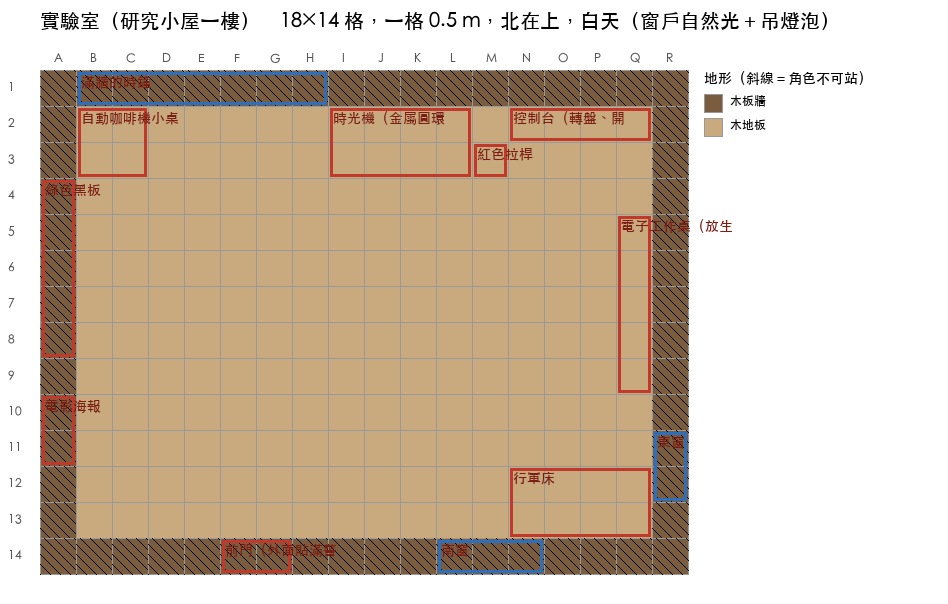
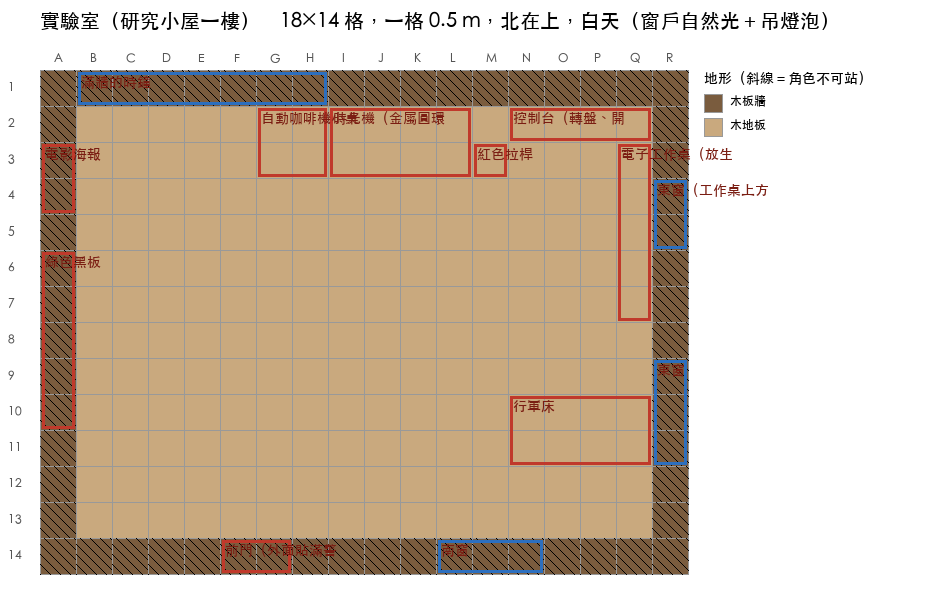
stickman: 實驗室地圖照設定圖第 2 版調整

diff --git a/stickman/characters/index.html b/stickman/characters/index.html
@@ -164,8 +164,8 @@ Every prop must keep exactly this shape and these colors whenever it appears.</d
 
 <h3 id="lab-v2">室內配置新版（2026-11-12）<span class="tag new">新</span></h3>
 <p class="sub">研究小屋<b>一樓</b>，沒有樓梯；室內 8 × 6 公尺，跟第 3 幕小屋外觀一樣大。氣氛參考回到未來布朗博士的車庫，只借「滿牆時鐘、會出錯的自製機器、住在實驗室的生活痕跡」這類通用元素。舊 REF_LAB（地下室）已經照這份重畫成第 2 版。</p>
-<div class="grid"><figure><img loading="lazy" src="img/REF_LAB.jpg" alt="實驗室設定圖第 2 版"><figcaption><b>實驗室設定圖第 2 版（REF_LAB，2026-11-12）</b>：上面是從南牆中間往北看的主視角，下面三格是時光機與控制台、時鐘牆與咖啡機與黑板、工作桌與行軍床。以後實驗室的格子都附這張。<br>跟地圖不一樣的地方：電影海報畫在黑板<b>北邊</b>（靠時鐘那一角），地圖上在黑板南邊，待決定改哪一邊。</figcaption></figure>
-<figure><img loading="lazy" src="img/lab_map_v2.png" alt="實驗室新地圖"><figcaption>新地圖（maps/lab.json）：一格 0.5 公尺，北在上。紅框＝地上的東西，藍框＝掛在牆上或高處（時鐘、窗戶）。</figcaption></figure><div class="card"><h3>地圖位置 → 設定圖主視角的位置</h3><table class="t"><tr><th>地圖位置</th><th>東西</th><th>主視角裡的位置</th></tr><tr><td>B1–H1（北牆西半）</td><td>滿牆的時鐘</td><td>後牆左半</td></tr><tr><td>B2（西北角）</td><td>自動咖啡機小桌</td><td>後牆左角</td></tr><tr><td>I2（北牆中間偏東）</td><td>時光機圓環</td><td>後牆中間偏右</td></tr><tr><td>M3</td><td>紅色拉桿</td><td>圓環右邊</td></tr><tr><td>N2（東北角）</td><td>控制台</td><td>後牆右角</td></tr><tr><td>A4–A8（西牆）</td><td>黑板</td><td>左牆（斜看）</td></tr><tr><td>A10–A11（西牆）</td><td>電影海報</td><td>左牆，比黑板近</td></tr><tr><td>Q5–Q9（東牆）</td><td>電子工作桌</td><td>右牆（斜看）</td></tr><tr><td>N12（東南角）</td><td>行軍床、東窗</td><td>右前角</td></tr><tr><td>F14（南牆偏西）</td><td>前門</td><td>在我們左後方，畫面外</td></tr><tr><td>I13 附近（南牆中間）</td><td>觀察點</td><td>主視角的相機</td></tr></table></div></div>
+<div class="grid"><figure><img loading="lazy" src="img/REF_LAB.jpg" alt="實驗室設定圖第 2 版"><figcaption><b>實驗室設定圖第 2 版（REF_LAB，2026-11-12）</b>：上面是從南牆中間往北看的主視角，下面三格是時光機與控制台、時鐘牆與咖啡機與黑板、工作桌與行軍床。以後實驗室的格子都附這張。<br>地圖已照這張調整（海報在黑板北邊、咖啡機在時鐘下、東牆兩扇窗）。</figcaption></figure>
+<figure><img loading="lazy" src="img/lab_map_v2.png" alt="實驗室新地圖"><figcaption>新地圖（maps/lab.json，照設定圖第 2 版調整過）：一格 0.5 公尺，北在上。紅框＝地上的東西，藍框＝掛在牆上或高處（時鐘、窗戶）。</figcaption></figure><div class="card"><h3>地圖位置 → 設定圖主視角的位置</h3><table class="t"><tr><th>地圖位置</th><th>東西</th><th>主視角裡的位置</th></tr><tr><td>B1–H1（北牆西半）</td><td>滿牆的時鐘</td><td>後牆左半</td></tr><tr><td>B2（西北角）</td><td>自動咖啡機小桌</td><td>後牆左角</td></tr><tr><td>I2（北牆中間偏東）</td><td>時光機圓環</td><td>後牆中間偏右</td></tr><tr><td>M3</td><td>紅色拉桿</td><td>圓環右邊</td></tr><tr><td>N2（東北角）</td><td>控制台</td><td>後牆右角</td></tr><tr><td>A4–A8（西牆）</td><td>黑板</td><td>左牆（斜看）</td></tr><tr><td>A10–A11（西牆）</td><td>電影海報</td><td>左牆，比黑板近</td></tr><tr><td>Q5–Q9（東牆）</td><td>電子工作桌</td><td>右牆（斜看）</td></tr><tr><td>N12（東南角）</td><td>行軍床、東窗</td><td>右前角</td></tr><tr><td>F14（南牆偏西）</td><td>前門</td><td>在我們左後方，畫面外</td></tr><tr><td>I13 附近（南牆中間）</td><td>觀察點</td><td>主視角的相機</td></tr></table></div></div>
 <details><summary>實驗室設定圖第 2 版的 prompt（REF_LAB v2）</summary><p class="note">在 Flow 開新的一張，16:9。<b>不要附舊的 REF_LAB</b>（舊的是地下室）；可以附 REF_PROF 當畫風參考。</p><h3>中文對照</h3><div class="zhp">16:9，生成 1 張。扁平 2D 卡通的場景設定圖：粗黑外框、平塗顏色、簡單陰影，畫風跟附圖一樣。**畫面裡沒有任何角色或人。任何地方都不要有文字、字母或數字**：黑板、海報、時鐘、螢幕上都不要。版面像美術設定頁，奶油色底：上半部一大格，下半部並排三小格，每格有細黑框。
 
 場景：大學校園裡老舊兩層木造小屋的一樓，改裝成雜亂的自製科技實驗室。只有一個房間，約 8 公尺寬、6 公尺深，**完全沒有樓梯**。直條木板牆（暖褐色）、舊木地板、低矮的外露木樑天花板（約 2.6 公尺高），電線沿著木樑拉，吊著幾顆燈泡。早上，暖色的陽光從窗戶照進來。
